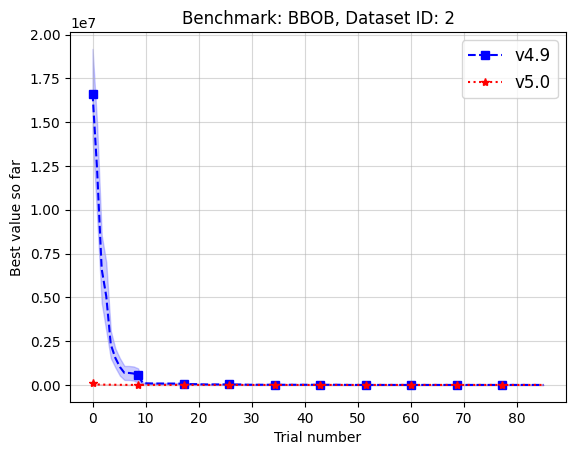
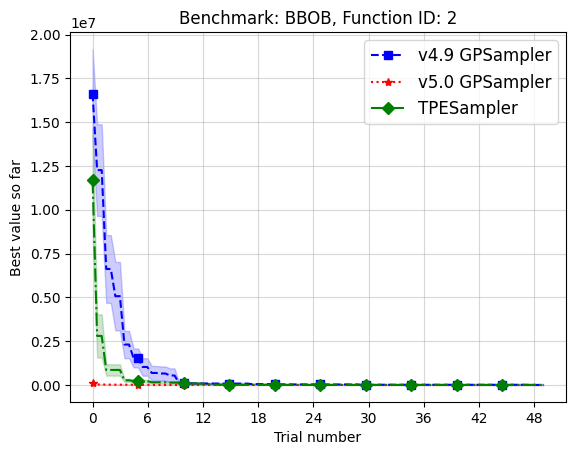
update for blog

diff --git a/show_runtime.py b/show_runtime.py
@@ -1,0 +1,72 @@
+from __future__ import annotations
+
+import argparse
+import statistics
+from pathlib import Path
+
+import optuna
+from study_snapshot import load_study_list as load_study_snapshot_list
+
+
+def load_study_list(result_dir: Path, label: str) -> list[optuna.Study]:
+    path = result_dir / f"{label}.pickle"
+    study_list = load_study_snapshot_list(path)
+    if not isinstance(study_list, list) or any(not isinstance(study, optuna.Study) for study in study_list):
+        raise TypeError(f"{path} does not contain a list of studies")
+    return study_list
+
+
+def get_study_runtime(study: optuna.Study) -> float:
+    cumtimes = [
+        float(trial.user_attrs["cumtime"])
+        for trial in study.trials
+        if trial.state == optuna.trial.TrialState.COMPLETE and "cumtime" in trial.user_attrs
+    ]
+    # print("cumtimes:", cumtimes[-10:])
+    if not cumtimes:
+        raise ValueError("No COMPLETE trials with 'cumtime' found")
+    return max(cumtimes)
+
+
+def find_labels(result_dir: Path) -> list[str]:
+    return sorted(path.stem for path in result_dir.glob("*.pickle"))
+
+
+def main() -> None:
+    parser = argparse.ArgumentParser(
+        description="Compute final runtime (max cumtime) per pickled study and print averages by label."
+    )
+    parser.add_argument(
+        "--result-dir",
+        default="./gp_simulator_results_n5_dataset2",
+        help="Directory containing pickled study lists.",
+    )
+    parser.add_argument(
+        "--labels",
+        nargs="+",
+        help="Target labels (pickle basename). If omitted, all *.pickle in --result-dir are used.",
+    )
+    args = parser.parse_args()
+
+    result_dir = Path(args.result_dir)
+    labels = args.labels or find_labels(result_dir)
+
+    if not labels:
+        raise FileNotFoundError(f"No pickle files found in {result_dir}")
+
+    for label in labels:
+        study_list = load_study_list(result_dir, label)
+        runtimes = [get_study_runtime(study) for study in study_list]
+
+        mean_runtime = statistics.mean(runtimes)
+        min_runtime = min(runtimes)
+        max_runtime = max(runtimes)
+
+        print(
+            f"{label}: mean={mean_runtime:.3f} sec "
+            f"(n={len(runtimes)}, min={min_runtime:.3f}, max={max_runtime:.3f})"
+        )
+
+
+if __name__ == "__main__":
+    main()

diff --git a/gp_plot.py b/gp_plot.py
@@ -17,8 +17,11 @@ plot_target_over_time = optunahub.load_local_module(
     # "visualization/plot_target_over_time"
 ).plot_target_over_time
 
+MAX_PLOT_TRIALS = 50
+
+
 def trim_to_same_length(study_list: list[optuna.Study]) -> list[optuna.Study]:
-    min_len = min(len(study.trials) for study in study_list)
+    min_len = min(min(len(study.trials) for study in study_list), MAX_PLOT_TRIALS)
 
     trimmed = []
     for study in study_list:
@@ -36,7 +39,7 @@ def get_style(label: str) -> dict[str, str]:
             "marker": "*",
             "ls": "dotted",
             # "plot_label": "qLogEI (n_qmc_samples=512)",
-            "plot_label": "v5.0",
+            "plot_label": "v5.0 GPSampler",
         }
     elif label == "master" or label == "softplus" or label == "max" or label == "v4_9":
         return {
@@ -44,15 +47,15 @@ def get_style(label: str) -> dict[str, str]:
             "marker": "s",
             "ls": "dashed",
             # "plot_label": "master",
-            "plot_label": "v4.9",
+            "plot_label": "v4.9 GPSampler",
         }
-    elif label == "qlogei-128" or label == "relu":
+    elif label == "qlogei-128" or label == "relu" or label == "TPESampler":
         return {
             "color": "green",
             "marker": "D",
             "ls": "dashdot",
             # "plot_label": "qLogEI (n_qmc_samples=128)",
-            "plot_label": "relu",
+            "plot_label": "TPESampler",
         }
     elif label == "qlogei-32":
         return {
@@ -89,7 +92,7 @@ def build_plot_title(result_dir: Path) -> str:
     else:
         benchmark = "HPO"
 
-    return f"Benchmark: {benchmark}, Dataset ID: {dataset_id}"
+    return f"Benchmark: {benchmark}, Function ID: {dataset_id}"
 
 
 def main() -> None:

diff --git a/pickle_compat.py b/pickle_compat.py
@@ -1,0 +1,46 @@
+from __future__ import annotations
+
+import pickle
+from pathlib import Path
+from typing import Any, BinaryIO
+
+
+class _CompatParzenEstimatorParameters(tuple):
+    """Fallback for Optuna TPE internals whose namedtuple fields changed across versions."""
+
+    __slots__ = ()
+
+    def __new__(cls, *args: Any) -> "_CompatParzenEstimatorParameters":
+        return super().__new__(cls, args)
+
+    def __getnewargs__(self) -> tuple[Any, ...]:
+        return tuple(self)
+
+
+class _OptunaCompatUnpickler(pickle.Unpickler):
+    _CLASS_OVERRIDES = {
+        ("optuna.samplers._tpe.parzen_estimator", "_ParzenEstimatorParameters"): (
+            _CompatParzenEstimatorParameters
+        ),
+    }
+
+    def find_class(self, module: str, name: str) -> type[Any]:
+        override = self._CLASS_OVERRIDES.get((module, name))
+        if override is not None:
+            return override
+        return super().find_class(module, name)
+
+
+def load_pickle(path: Path) -> Any:
+    with path.open("rb") as f:
+        return _load_with_compat(f)
+
+
+def _load_with_compat(file_obj: BinaryIO) -> Any:
+    try:
+        return pickle.load(file_obj)
+    except TypeError as exc:
+        if "_ParzenEstimatorParameters" not in str(exc):
+            raise
+        file_obj.seek(0)
+        return _OptunaCompatUnpickler(file_obj).load()

diff --git a/gp_simulate_for_non_evaluation_time.py b/gp_simulate_for_non_evaluation_time.py
@@ -54,10 +54,11 @@ def simulate(
     # problem = Problem(dataset_id=dataset_id, metric_names=["val_acc"], seed=0)
     problem = Problem(function_id=dataset_id, dimension=2)
 
-    sampler = optuna.samplers.GPSampler(
-        n_startup_trials=n_startup_trials,
-        seed=seed,
-    )
+    # sampler = optuna.samplers.GPSampler(
+    #     n_startup_trials=n_startup_trials,
+    #     seed=seed,
+    # )
+    sampler = optuna.samplers.TPESampler(seed=seed)
     # sampler._q_acqf_n_qmc_samples = 128
     study = optuna.create_study(directions=problem.directions, sampler=sampler)
     start_time = time.perf_counter()
